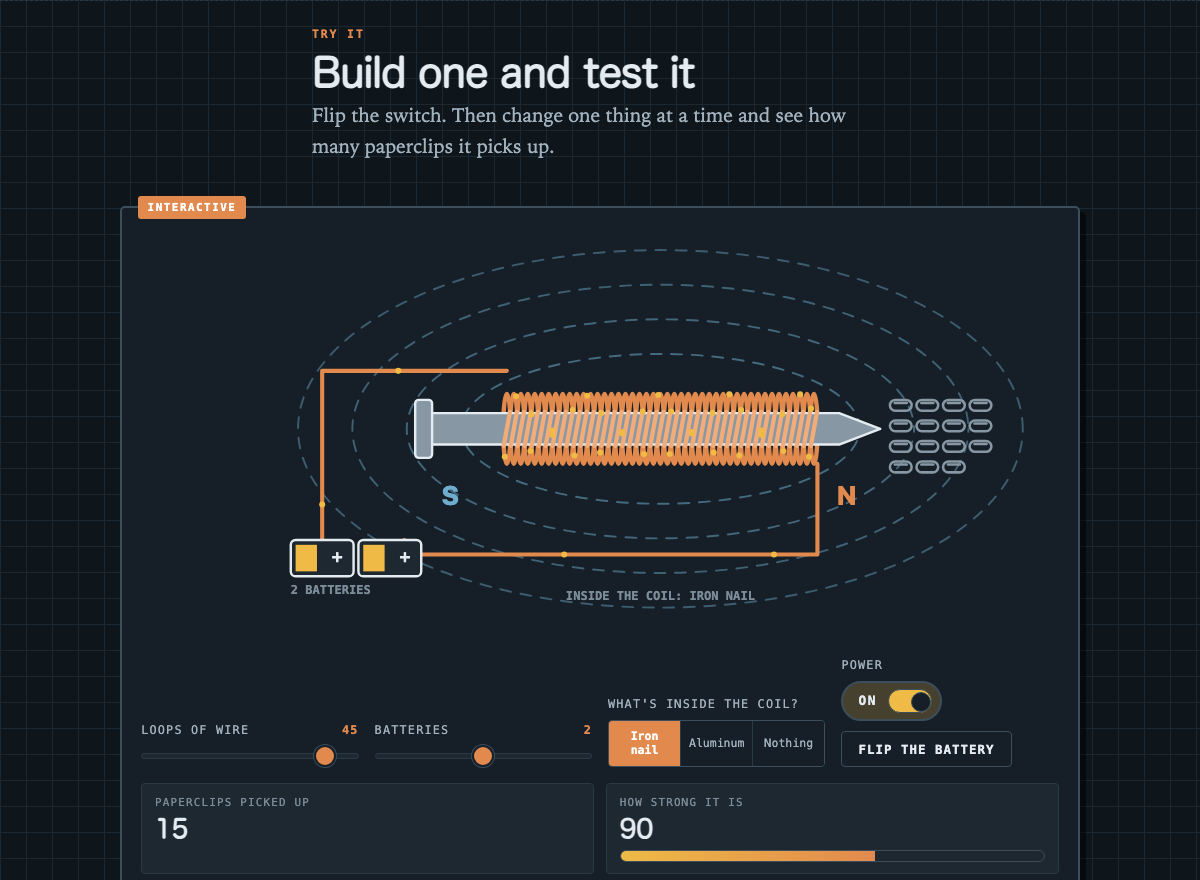
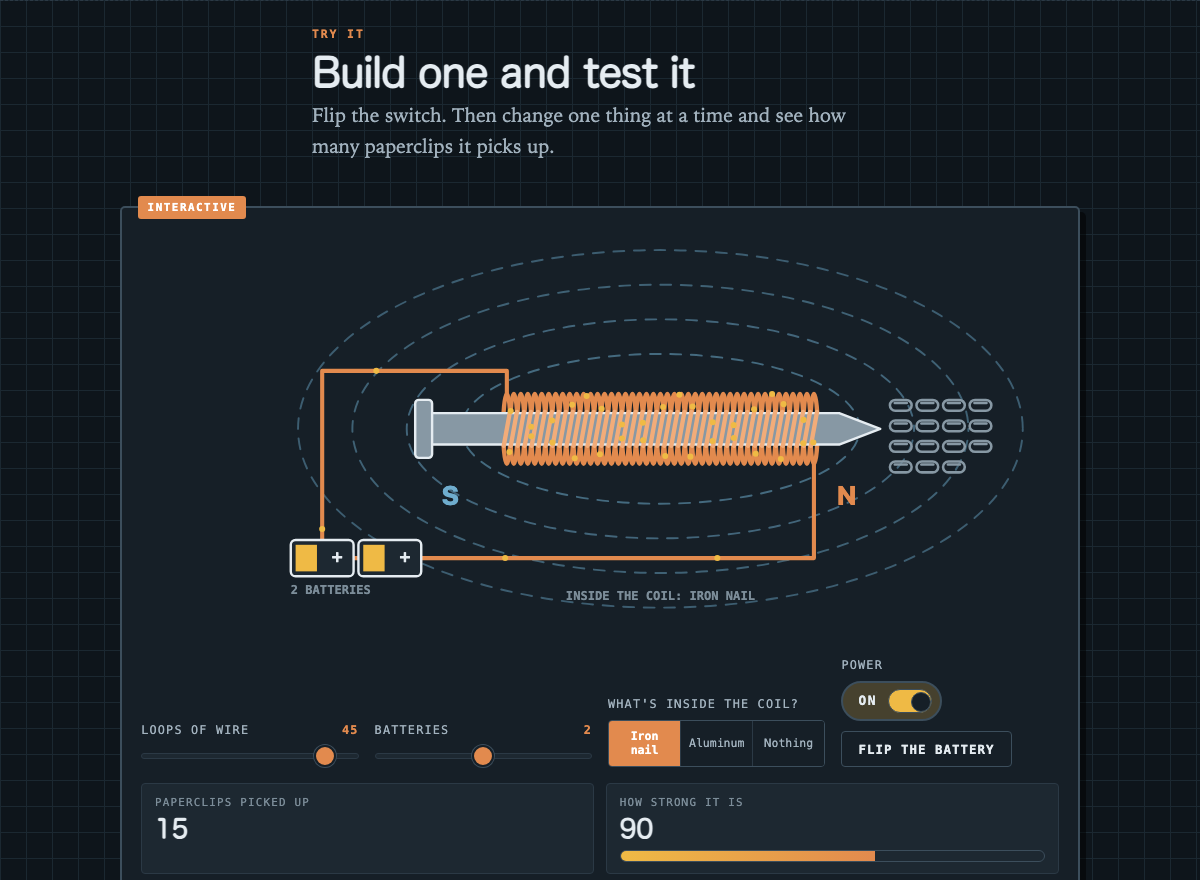
Connect both leads to the coil and the battery
The top lead stopped above the first loop instead of meeting it, and the
return lead ended at a fixed x that only lined up with the pack when there
were two or more cells — with one battery it finished in mid-air.

Both now land on real anchor points: the top of the first loop and the
bottom of the last. The return wire runs at the pack's mid-height, so
added cells just cover more of it and it still reads as leaving the
right-hand end. Battery geometry is shared constants now, and buildPath
follows the same route so the current dots stay on the wire.

diff --git a/index.html b/index.html
@@ -519,6 +519,9 @@ function fitCanvas(cv, logicalW, logicalH){
 /* ══════════  drawing the electromagnet scene  ══════════ */
 var COIL_X0 = 300, COIL_X1 = 560, NAIL_Y = 158, NAIL_H = 26;
 var NAIL_X0 = 240, NAIL_TIP = 612;
+var BAT_X = 124, BAT_Y = 250, BAT_W = 52, BAT_H = 30, BAT_GAP = 4;
+var BAT_MID = BAT_Y + BAT_H/2;   // the return wire runs along here, behind the pack
+var BAT_TAP = BAT_X + BAT_W/2;   // the other wire leaves the top of the first cell
 
 function coilGeometry(turns){
   var spacing = (COIL_X1 - COIL_X0) / turns;
@@ -605,7 +608,8 @@ function drawPoles(ctx, flipped, alpha){
   ctx.restore();
 }
 function buildPath(turns, g){
-  var pts = [[150,250],[150,110],[COIL_X0+g.spacing*0.5,110]];
+  var xIn = g.cx(0), xOut = g.cx(turns-1);
+  var pts = [[BAT_TAP,BAT_MID],[BAT_TAP,110],[xIn,110],[xIn,NAIL_Y-g.ry]];
   for(var i=0;i<turns;i++){
     var cx = g.cx(i);
     for(var a=0;a<12;a++){
@@ -613,7 +617,7 @@ function buildPath(turns, g){
       pts.push([cx + g.rx*Math.cos(th), NAIL_Y + g.ry*Math.sin(th)]);
     }
   }
-  pts.push([COIL_X1, NAIL_Y+g.ry],[COIL_X1,262],[218,262],[218,250]);
+  pts.push([xOut, NAIL_Y+g.ry],[xOut,BAT_MID],[BAT_TAP,BAT_MID]);
   var cum=[0], total=0;
   for(var j=1;j<pts.length;j++){
     total += Math.hypot(pts[j][0]-pts[j-1][0], pts[j][1]-pts[j-1][1]);
@@ -630,18 +634,24 @@ function pointAt(path, d){
   var a=path.pts[lo], b=path.pts[hi];
   return [a[0]+(b[0]-a[0])*t, a[1]+(b[1]-a[1])*t];
 }
-function drawLeads(ctx, g){
+/* Both leads land exactly on the coil and on the battery. The return wire
+   runs at the pack's mid-height, so when cells are added the pack simply
+   covers more of it (batteries are drawn last) and the wire keeps looking
+   like it comes out of the right-hand end. */
+function drawLeads(ctx, g, turns){
+  var xIn = g.cx(0), xOut = g.cx(turns-1);
   ctx.strokeStyle = PAL["copper"]; ctx.lineWidth = 3.4;
   ctx.lineCap="round"; ctx.lineJoin="round";
   ctx.beginPath();
-  ctx.moveTo(150,250); ctx.lineTo(150,110); ctx.lineTo(COIL_X0+g.spacing*0.5,110);
-  ctx.moveTo(COIL_X1,NAIL_Y+g.ry); ctx.lineTo(COIL_X1,262); ctx.lineTo(218,262); ctx.lineTo(218,250);
+  ctx.moveTo(BAT_TAP, BAT_MID); ctx.lineTo(BAT_TAP,110);
+  ctx.lineTo(xIn,110); ctx.lineTo(xIn, NAIL_Y-g.ry);
+  ctx.moveTo(xOut, NAIL_Y+g.ry); ctx.lineTo(xOut, BAT_MID); ctx.lineTo(BAT_TAP, BAT_MID);
   ctx.stroke();
 }
 function drawBattery(ctx, cells, flipped, on){
-  var w=52,h=30,y=250,x0=124,x=x0;
+  var w=BAT_W,h=BAT_H,y=BAT_Y,x0=BAT_X,x=x0;
   for(var i=0;i<cells;i++){
-    x = x0 + i*(w+4);
+    x = x0 + i*(w+BAT_GAP);
     ctx.fillStyle = PAL["panel-2"]; ctx.strokeStyle = PAL["ink"]; ctx.lineWidth=2;
     ctx.beginPath();
     if(ctx.roundRect) ctx.roundRect(x,y,w,h,4); else ctx.rect(x,y,w,h);
@@ -689,7 +699,7 @@ function drawClips(ctx, n, pull){
     ctx.save();
     ctx.translate(0,-42);
     drawFieldLines(ctx, 0.9, phase, false);
-    drawLeads(ctx, g);
+    drawLeads(ctx, g, turns);
     drawCoilBack(ctx,g,turns);
     drawCore(ctx,"iron");
     drawCoilFront(ctx,g,turns);
@@ -770,7 +780,7 @@ function drawClips(ctx, n, pull){
     pull += (target-pull) * (reduced ? 1 : 0.12);
 
     drawFieldLines(ctx, Math.min(1, s/60), phase, st.flipped);
-    drawLeads(ctx, g);
+    drawLeads(ctx, g, st.turns);
     drawCoilBack(ctx,g,st.turns);
     drawCore(ctx, st.core);
     drawCoilFront(ctx,g,st.turns);
